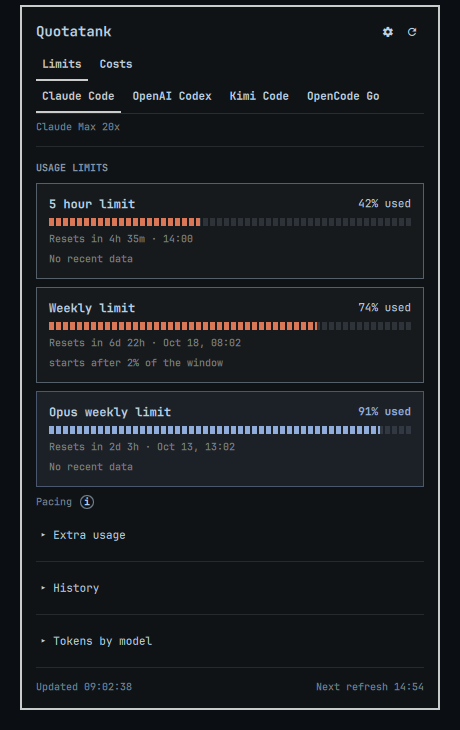
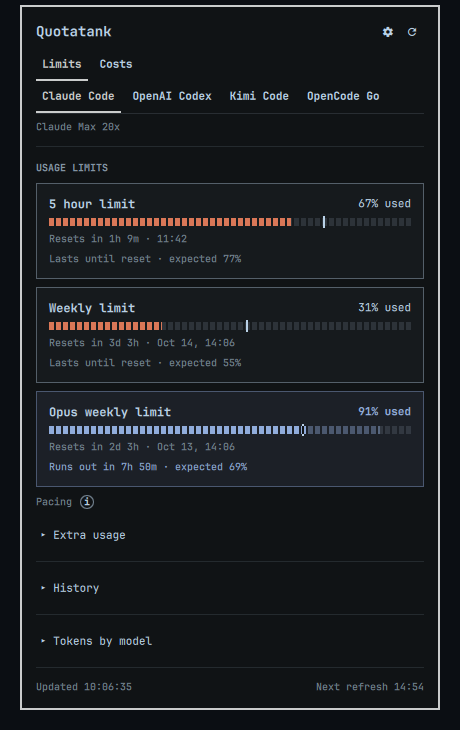
Fix pacing on Quickshell builds; refresh store presentation
- recentBurn reads array-like sample lists and rows (isListLike, not Array.isArray), so pace and run-out estimates no longer show 'No recent data' on Quickshell.
- Regression test for array-like samples.
- Rewrite README with a 'What sets it apart' section; English only.
- Store description rewritten (384 characters).
- Recapture limits screenshots; add Costs settings screenshot with T3 servers.

diff --git a/tests/test_usage_logic.js b/tests/test_usage_logic.js
@@ -443,6 +443,22 @@ const previous = context.paceForWindow(weekly(5, [[weekStart - HOUR, 90], ...hol
 assert.equal(previous.state, "idle", "the earlier window's 90% does not start a burn");
 assert.equal(previous.runsOut, false);
 
+// Quickshell can hand over lists with length and index access that fail Array.isArray(). They must read
+// exactly like plain arrays; a sample list that looks empty to the reader would show "No recent data".
+const asArrayLike = (items) => Object.assign({ length: items.length }, items);
+const steadySamples = linear(weekStart, NOW, 40);
+const listSamples = asArrayLike(steadySamples.map(asArrayLike));
+assert.equal(Array.isArray(listSamples), false);
+assert.equal(Array.isArray(listSamples[0]), false);
+const plainBurn = context.recentBurn(steadySamples, 40, NOW, weekStart);
+const listBurn = context.recentBurn(listSamples, 40, NOW, weekStart);
+assert.notEqual(listBurn, null, "array-like samples are read, not treated as missing");
+assert.ok(listBurn.percentPerSecond > 0, "array-like samples carry the same burn");
+assert.deepEqual(listBurn, plainBurn);
+const listPace = context.paceForWindow({ used: 40, windowSeconds: WEEK, resetsAt: NOW + WEEK / 2, samples: listSamples }, NOW);
+assert.equal(listPace.state, "projecting", "array-like samples project a run-out or a steady burn");
+assert.deepEqual(listPace, context.paceForWindow(weekly(40, steadySamples), NOW));
+
 const exhausted = context.paceForWindow(weekly(140, holding(weekStart, NOW, 100)), NOW);
 assert.equal(exhausted.used, 100, "used clamps before projecting");
 assert.equal(exhausted.state, "exhausted");

diff --git a/UsageLogic.js b/UsageLogic.js
@@ -447,13 +447,15 @@ function finiteOrNull(value) {
 // the last increase (or since observation began, when no increase was seen).
 function recentBurn(samples, used, nowSeconds, windowStart) {
   var points = []
-  var list = Array.isArray(samples) ? samples : []
-  list.forEach(function (row) {
-    var stamp = Array.isArray(row) ? finiteOrNull(row[0]) : null
-    var value = Array.isArray(row) ? finiteOrNull(row[1]) : null
-    if (stamp === null || value === null || stamp > nowSeconds) return
+  var list = listOrEmpty(samples)
+  // Index loop, not forEach: Quickshell lists may lack forEach but keep length and indexing.
+  for (var r = 0; r < list.length; r++) {
+    var row = list[r]
+    var stamp = isListLike(row) ? finiteOrNull(row[0]) : null
+    var value = isListLike(row) ? finiteOrNull(row[1]) : null
+    if (stamp === null || value === null || stamp > nowSeconds) continue
     points.push([stamp, clamp(value, 0, 100)])
-  })
+  }
   points.sort(function (a, b) { return a[0] - b[0] })
   if (points.length === 0 || nowSeconds - points[points.length - 1][0] > PACE_MAX_GAP_SECONDS) return null
 

diff --git a/README.md b/README.md
@@ -2,36 +2,30 @@
 
 [![CI](https://github.com/JanitorHead/omarchy-quotatank/actions/workflows/ci.yml/badge.svg)](https://github.com/JanitorHead/omarchy-quotatank/actions/workflows/ci.yml)
 
-Quotatank puts your AI subscription limits in the Omarchy menu bar: Claude Code, OpenAI Codex, Kimi Code, and OpenCode Go, plus estimated API costs from your local CLI and T3 Code history.
+Quotatank shows your AI subscription limits in the Omarchy menu bar: Claude Code, OpenAI Codex, Kimi Code, and OpenCode Go. It also estimates API value from your local CLI and T3 Code history.
 
 ![Quotatank limits for Claude Code in Omarchy theme colors, with a critical 91% card](https://raw.githubusercontent.com/JanitorHead/omarchy-quotatank/main/docs/screenshots/limits.png)
 
-![Quotatank limits for Claude Code with provider colors enabled](https://raw.githubusercontent.com/JanitorHead/omarchy-quotatank/main/docs/screenshots/limits-brand.png)
+## What sets it apart
 
-![Quotatank limits in four Omarchy themes: Tokyo Night, Catppuccin, Gruvbox, and Nord](https://raw.githubusercontent.com/JanitorHead/omarchy-quotatank/main/docs/screenshots/themes.png)
-
-## Features
-
-- **Limits per provider:** session, weekly, and model-specific windows with reset countdowns, pacing, and warning colors.
-- **Menu bar chips:** a percentage chip per provider, with the most restrictive window as the bar value. Provider colors are optional.
-- **Used or Remaining:** show usage as percent used (default) or percent left. Thresholds, alerts, and pacing follow the side you choose.
-- **Alerts:** optional notifications when a window crosses your warning or critical threshold.
-- **Subscription proxies:** Fusebox and CLIProxyAPI accounts are discovered automatically, one card per account. Their percentages are never added or averaged.
-- **Costs:** estimated API value of recorded tokens from local Codex and Claude Code transcripts and up to four T3 Code servers, over 24H, 7D, or 30D.
-- **Privacy controls:** hide account emails, and keep management keys in private files.
+- **Pace, not just percent.** Each limit card has a pace tick at the share of the window you would expect to have used by now. A status line projects the run-out from recent use, for example `Runs out in 2h 5m`, or `Lasts until reset`.
+- **One card per account.** Fusebox and CLIProxyAPI accounts are discovered automatically, one card each. Accounts are not averaged into one number.
+- **Used or Remaining.** Show usage as percent used or percent left. Warning thresholds are always set as percent left, whichever side you display.
+- **Alerts that re-arm.** Desktop notifications fire at your warning and critical thresholds. Recovering or a reset re-arms the next notification.
+- **Two limits per chip.** By default a chip shows the most constrained window. Pin a specific window, and optionally stack a second limit under the first.
+- **Monitor vs Menu bar.** Choose per provider which ones appear in the panel and which appear in the menu bar.
+- **Costs over 24H, 7D, and 30D.** Estimated API value from local Codex and Claude Code transcripts and up to four T3 Code servers, with a per-model breakdown and custom model prices.
+- **Theme-aware.** Colors follow the active Omarchy theme by default. Provider brand colors are optional, and cards can use square or theme-corner shapes.
 
 ![Quotatank menu bar chips for Claude Code, Codex, Kimi Code, and OpenCode Go in Omarchy theme colors](https://raw.githubusercontent.com/JanitorHead/omarchy-quotatank/main/docs/screenshots/bar.png)
 
 ![Quotatank menu bar chips with provider colors enabled](https://raw.githubusercontent.com/JanitorHead/omarchy-quotatank/main/docs/screenshots/bar-brand.png)
 
+![Quotatank limits in four Omarchy themes: Tokyo Night, Catppuccin, Gruvbox, and Nord](https://raw.githubusercontent.com/JanitorHead/omarchy-quotatank/main/docs/screenshots/themes.png)
+
+![Quotatank limits for Claude Code with provider colors enabled](https://raw.githubusercontent.com/JanitorHead/omarchy-quotatank/main/docs/screenshots/limits-brand.png)
+
 This is a derived work of [omarchy-modelusage](https://github.com/DigitalPals/omarchy-modelusage) by DigitalPals (MIT). See [LICENSE](LICENSE) and [THIRD_PARTY_NOTICES.md](THIRD_PARTY_NOTICES.md).
-
-## Requirements
-
-- Omarchy with schema-v1 shell plugins.
-- Python 3.10+. Quota and cost backends use only the standard library.
-- Network access for quota checks. Costs can download the public LiteLLM price table and contact configured T3 servers.
-- Optional: Python `websockets` 15+ for Fusebox live activity. Without it, cached quotas and last-used activity still work.
 
 ## Install
 
@@ -52,13 +46,20 @@ The built-in `omarchy.agents` widget can run alongside Quotatank. To keep only Q
 omarchy plugin disable omarchy.agents
 ```
 
+Requirements:
+
+- Omarchy with schema-v1 shell plugins.
+- Python 3.10+. Quota and cost backends use only the standard library.
+- Network access for quota checks. Costs can download the public LiteLLM price table and contact configured T3 servers.
+- Optional: Python `websockets` 15+ for Fusebox live activity. Without it, cached quotas and last-used activity still work.
+
 ## Connect a source
 
 Limits and Costs have separate settings. A proxy can supply Limits while local transcripts supply Costs.
 
 ### Local CLI sign-ins
 
-Sign in with each provider's CLI, then open **Limits → gear**, choose **Local CLIs** as the quota source, enable **Monitor** for each provider, and save.
+Sign in with each provider's CLI, then open **Limits → gear**, keep the local CLI quota source, choose the providers to monitor, and save.
 
 | Provider | Sign in | Quota source |
 |---|---|---|
@@ -73,38 +74,38 @@ Quotatank reads existing CLI credentials and never renews them. Sign-in stays wi
 
 1. Open **Limits → gear** and select **Fusebox** or **CLIProxyAPI** under **Quota source**.
 2. Enter the server URL, for example `http://127.0.0.1:8317`.
-3. Enter the plaintext management key that the proxy dashboard accepts. Client API keys and bcrypt hashes do not work.
-4. Save. Managed accounts are discovered automatically.
+3. Enter the plaintext Management API key that the server's management panel accepts. Client API keys and bcrypt hashes do not work.
+4. Save. Managed accounts are discovered automatically and get one card each.
 
-The key is stored in a private file, not in widget settings. Remote servers must allow remote management access. Quota lookups cover Claude, Codex, Kimi, and Antigravity; other providers show an unsupported notice.
+The key is saved to a private file (`0600`) and is never loaded back into the form. Remote servers must allow remote management access. Quota lookups cover Claude, Codex, Kimi, OpenCode Go, and Antigravity; other providers show an unsupported notice.
 
 ### Cost history
 
-Open **Costs → gear**. Local Codex CLI and Claude Code history are on by default. Add T3 servers with a name, base URL, and connection token (usage contract 4 or 5). Custom prices override the public table by exact model ID.
+Open **Costs → gear**. Local Codex CLI and Claude Code history are on by default. Add up to four T3 servers, each with a name, base URL, and connection token (usage contract 4 or 5). Custom prices override the public table by exact model ID.
 
 ![Quotatank Costs tab with a 30-day daily chart and per-provider estimates](https://raw.githubusercontent.com/JanitorHead/omarchy-quotatank/main/docs/screenshots/costs.png)
 
-Costs estimates the API value of recorded tokens. It does not show subscription fees, credits, or invoices. Full source list and limits: [cost contract](https://github.com/JanitorHead/omarchy-quotatank/blob/main/docs/cost-contract.md).
+![Quotatank Costs settings with two remote T3 servers, local history toggles, and custom prices](https://raw.githubusercontent.com/JanitorHead/omarchy-quotatank/main/docs/screenshots/costs-t3-servers.png)
+
+Costs is an estimate of API value for the recorded tokens. It is not a bill, a subscription charge, or a credit balance. Full source list and limits: [cost contract](https://github.com/JanitorHead/omarchy-quotatank/blob/main/docs/cost-contract.md).
 
 ## Settings
 
 ![Quotatank settings: display, providers, and monitoring options](https://raw.githubusercontent.com/JanitorHead/omarchy-quotatank/main/docs/screenshots/settings.png)
 
-Limits settings control the quota source, Used or Remaining, bar chips, reset formats, account-email privacy, card corners, provider colors, refresh interval (1–60 minutes), and warning thresholds. Thresholds are stored as percent left.
+Limits settings control the quota source, Used or Remaining, the menu-bar chips and their second limit, reset formats, account-email privacy, card corners, provider colors, the refresh interval (1–60 minutes; default 15), and the warning and critical thresholds. Notifications for limits that run low are on by default.
 
 ## Controls
 
 | Action | Control |
 |---|---|
-| Open or close the panel | Left click; a percentage chip opens its provider |
-| Next provider | Middle click, or `p` |
-| Select provider | `h` / `l`, Left / Right |
+| Open or close the panel | Left click on the bar |
+| Next provider | Middle click, or `p` on Limits |
 | Switch tabs | `u` for Limits, `c` for Costs |
-| Refresh | `r` or Enter |
-| Scroll | `j` / `k`, Down / Up |
+| Refresh | `r` |
 | Costs metric / token details / model breakdown | `m` / `d` / `b` |
-| Settings | Gear or `s` |
-| Close, or cancel a draft | Escape |
+| Settings | `s` |
+| Cancel a settings edit or close a confirmation | Escape |
 
 Namespaced IPC for keybindings and scripts:
 
@@ -114,15 +115,16 @@ omarchy-shell janitorhead.quotatank costs
 omarchy-shell janitorhead.quotatank refresh
 ```
 
-Also available: `open`, `close`, `toggle`, `next`, `configure`, `configureCosts`, and `exportJson`. `exportJson` replaces account identities with numbered labels while hide-emails is on. All setting keys: [settings reference](https://github.com/JanitorHead/omarchy-quotatank/blob/main/docs/configuration.md#settings).
+Also available: `open`, `close`, `toggle`, `show`, `hide`, `next`, `configure`, `configureCosts`, and `exportJson`. `exportJson` replaces account identities with numbered labels while hide-emails is on. All setting keys: [settings reference](https://github.com/JanitorHead/omarchy-quotatank/blob/main/docs/configuration.md#settings).
 
 ## Privacy
 
-- Provider sign-ins stay with the CLI or the proxy.
+- Provider sign-ins stay with the CLI or the proxy. Quotatank reads existing credentials and does not renew them.
+- Hide account emails is on by default. Account cards and menu-bar tooltips use numbered labels.
 - Management keys and T3 tokens are saved in private files (`0600`, directories `0700`), never in widget settings or command-line arguments.
-- Cost collectors read local transcripts but store only accounting metadata and hashed identifiers. No prompts, responses, tool output, or credentials are cached.
+- Cost collectors keep accounting metadata only. Prompts and raw transcript paths are not retained.
 - HTTPS certificates are verified, and provider redirects are rejected.
-- Ordinary quota collection is read-only. Applying a banked Codex reset is a separate action that asks for confirmation.
+- Quota collection is read-only. Applying a banked Codex reset is a separate action that asks for confirmation.
 
 ## Documentation
 

diff --git a/CHANGELOG.md b/CHANGELOG.md
@@ -4,6 +4,12 @@ All notable changes to this project will be documented here. The format follows
 [Keep a Changelog](https://keepachangelog.com/en/1.1.0/), and releases use
 [Semantic Versioning](https://semver.org/spec/v2.0.0.html).
 
+## Unreleased
+
+### Fixed
+
+- Fixed pacing and run-out estimates showing "No recent data" on Quickshell builds where widget data fails `Array.isArray`.
+
 ## 1.4.0
 
 ### Added
